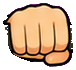
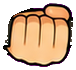
18 네온 니콜: 앞(먼) 주먹 반대 손 → 자루 축 기준 뒤집어 엄지 위로 (쥔 점·손목 자리 유지)
Claude-Session: https://claude.ai/code/session_015ytCrWApV92AMmnGMogyWc

diff --git a/assets/rig/nicole-neon/rig.def.js b/assets/rig/nicole-neon/rig.def.js
@@ -1,1 +1,1 @@
-window.MR_RIG_DEFS=window.MR_RIG_DEFS||{};window.MR_RIG_DEFS['nicole-neon']={"name":"nicole-neon","version":1,"units":"rig px (reference x2)","refOrigin":[261.7,506.0],"refScale":2.0,"refLift":0,"parts":{"skirt":{"src":"parts/skirt.png","pivot":[175.5,18.0],"scale":0.996,"mesh":{"cols":8,"rows":9}},"cape":{"src":"parts/cape.png","pivot":[101.0,10.0],"scale":1.06,"mesh":{"cols":6,"rows":7}},"torso":{"src":"parts/torso.png","pivot":[148.5,175.8],"scale":0.748},"pouchA":{"src":"parts/pouchA.png","pivot":[50.5,34.2],"scale":0.9716},"pouchB":{"src":"parts/pouchB.png","pivot":[51.0,33.9],"scale":0.9893},"collarBack":{"src":"parts/collarBack.png","pivot":[61.0,42.0],"scale":0.7779},"collar":{"src":"parts/collar.png","pivot":[61.0,42.0],"scale":0.7779},"head":{"src":"parts/head.png","pivot":[187.9,264.0],"scale":0.9868},"armU":{"src":"parts/armU.png","pivot":[56.3,29.9],"scale":1.2363},"armL":{"src":"parts/armL.png","pivot":[47.8,33.9],"scale":1.2363,"alt":"armLF"},"pauldron":{"src":"parts/pauldron.png","pivot":[69.6,89.5],"scale":0.8367},"pauldronF":{"src":"parts/pauldronF.png","pivot":[55.6,68.5],"scale":0.78},"armF":{"src":"parts/armF.png","pivot":[28.1,29.2],"scale":1.2363},"foreF":{"src":"parts/foreF.png","pivot":[35.1,30.8],"scale":1.2363},"fistF":{"src":"parts/fistF.png","pivot":[17.1,21.9],"scale":1.2674},"weapon":{"src":"parts/weapon.png","pivot":[107.9,622.0],"scale":0.7995,"tips":[[72.5,7.0],[141.5,7.0]]},"coatFlap":{"src":"parts/coatFlap.png","pivot":[-45.5,-32.0],"scale":0.996,"mesh":{"cols":3,"rows":9}},"armLF":{"src":"parts/armLF.png","pivot":[73.7,38.3],"scale":1.2363,"grip":[55.6,136.4]},"handL":{"src":"parts/handL.png","pivot":[40.4,37.3],"scale":1.2363,"shaftDir":[1.0,-0.0008],"wrist":[4.0,60.0],"toElbow":[-0.862,0.506]},"handR":{"src":"parts/handR.png","pivot":[141.2,36.1],"scale":1.2363,"shaftDir":[1.0,-0.0004],"elbow":[3.0,36.0]},"waveSleeve":{"src":"parts/waveSleeve.png","pivot":[24.0,24.0],"scale":1.2363,"elbow":[33.5,86.9]},"waveFore":{"src":"parts/waveFore.png","pivot":[31.3,89.6],"scale":1.2363,"wrist":[104.3,32.6]},"waveHandW":{"src":"parts/waveHandW.png","pivot":[38.0,74.0],"scale":1.2363,"tip":[43.0,5.0]},"thigh":{"src":"parts/thigh.png","pivot":[38.1,36.0],"scale":1},"shin":{"src":"parts/shin.png","pivot":[28.0,28.1],"scale":1},"boot":{"src":"parts/boot.png","pivot":[45,30],"scale":1.177},"face_effort":{"src":"parts/face_effort.png","pivot":[86.9,171.0],"scale":0.9868},"face_shout":{"src":"parts/face_shout.png","pivot":[86.9,171.0],"scale":0.9868},"face_happy":{"src":"parts/face_happy.png","pivot":[86.9,171.0],"scale":0.9868},"face_sad":{"src":"parts/face_sad.png","pivot":[86.9,171.0],"scale":0.9868},"face_angry":{"src":"parts/face_angry.png","pivot":[86.9,171.0],"scale":0.9868},"face_grimace":{"src":"parts/face_grimace.png","pivot":[86.9,171.0],"scale":0.9868},"face_focus":{"src":"parts/face_focus.png","pivot":[86.9,171.0],"scale":0.9868},"face_relaxed":{"src":"parts/face_relaxed.png","pivot":[86.9,171.0],"scale":0.9868},"blink_half":{"src":"parts/blink_half.png","pivot":[86.9,171.0],"scale":0.9868},"blink_closed":{"src":"parts/blink_closed.png","pivot":[86.9,171.0],"scale":0.9868}},"bones":[{"name":"root","parent":null,"pos":[0,0]},{"name":"hip","parent":"root","pos":[34.0,-417.2]},{"name":"skirt","parent":"hip","pos":[-23.8,-16.6],"rot":0.0152,"part":"skirt"},{"name":"cape","parent":"hip","pos":[-119.4,26.2],"rot":0.68,"part":"cape"},{"name":"torso","parent":"hip","pos":[0.0,0.0],"rot":-0.0407,"part":"torso"},{"name":"pouchA","parent":"skirt","pos":[-64.6,25.8],"rot":0.0885,"part":"pouchA"},{"name":"pouchB","parent":"skirt","pos":[77.8,27.3],"rot":-0.0943,"part":"pouchB"},{"name":"collarBack","parent":"torso","pos":[-46.0,-125.8],"rot":0.0683,"part":"collarBack"},{"name":"collar","parent":"torso","pos":[-46.0,-125.8],"rot":0.0683,"part":"collar"},{"name":"head","parent":"torso","pos":[-45.9,-133.6],"rot":0.0631,"part":"head"},{"name":"armU","parent":"torso","pos":[-134.3,-75.3],"rot":-0.0682,"part":"armU"},{"name":"armL","parent":"armU","pos":[-34.1,65.7],"rot":0.0522,"part":"armL"},{"name":"pauldron","parent":"torso","pos":[-134.3,-75.3],"rot":-0.1009,"part":"pauldron"},{"name":"pauldronF","parent":"torso","pos":[49.7,-89.3],"rot":-0.2735,"part":"pauldronF"},{"name":"armF","parent":"torso","pos":[49.7,-89.3],"rot":-0.6631,"part":"armF"},{"name":"foreF","parent":"armF","pos":[30.5,68.2],"rot":-1.0538,"part":"foreF"},{"name":"fistF","parent":"foreF","pos":[30.0,71.0],"part":"fistF"},{"name":"weapon","parent":"fistF","pos":[31.9,24.5],"rot":1.7576,"part":"weapon"},{"name":"coatFlap","parent":"skirt","pos":[0,0],"part":"coatFlap"},{"name":"handL","parent":"weapon","pos":[0,0],"rot":-1.57,"part":"handL"},{"name":"handR","parent":"weapon","pos":[0,0],"rot":-1.5704,"part":"handR"},{"name":"wSleeve","parent":"torso","pos":[49.7,-89.3],"part":"waveSleeve"},{"name":"wFore","parent":"wSleeve","pos":[11.7,77.7],"part":"waveFore"},{"name":"wHand","parent":"wFore","pos":[90.3,-70.4],"part":"waveHandW"}],"legs":{"hip":[0,53],"thigh":150,"shin":146,"thighImg":{"part":"thigh","a":[38.1,36.0],"b":[44.7,110.8],"w":0.605},"shinImg":{"part":"shin","a":[28.0,28.1],"b":[35.8,98.1],"w":0.638},"boot":{"part":"boot","sole":[[-38,50],[-30,58],[45,58],[66,50]],"ankleRange":[-0.62,0.56]},"near":{"x":40,"shade":0},"far":{"x":-60,"shade":0.16}},"draw":["cape","legFar","legNear","armF","torso","collarBack","pauldronF","skirt","coatFlap","pouchB","pouchA","weapon","foreF","fistF","handL","armU","armL","pauldron","handR","head","collar"],"drawWave":["cape","legFar","legNear","armF","wSleeve","torso","collarBack","pauldronF","skirt","coatFlap","pouchB","pouchA","weapon","foreF","fistF","handL","wFore","armU","armL","pauldron","handR","head","collar","wHand"],"hidden":["handL","handR","wSleeve","wFore","wHand"],"faces":{"effort":"face_effort","shout":"face_shout","happy":"face_happy","sad":"face_sad","angry":"face_angry","grimace":"face_grimace","focus":"face_focus","relaxed":"face_relaxed"},"waveImg":{"upper":1.4217,"fore":-0.6622,"hand":-1.4985,"handRest":-0.357,"shoulderShift":[0,18],"up":1.15,"fore0":-1.2,"note":"먼 팔(창 팔) 손 흔들기: 소매는 상체 뒤, 먼 어깨갑(pauldronF)이 어깨를 덮음"},"hemRun":{"lift":12,"knee":0.7,"heel":0.6,"reach":0.15,"kneeX":0.3,"lungeK":0.45,"lungeX":0.35,"actKnee":0.6},"hemLimit":{"up":0.28,"x":0.32},"flap":{"part":"coatFlap","off":[221.0,50.0],"openX":46,"openY":18,"knee":0.012,"kneeUp":0.008,"lunge":0.009},"releaseOpen":true,"dropLift":16,"hemRest":true,"idleStance":{"near":40,"far":-106},"follow":[{"bone":"pauldronF","src":"armF","k":0.35}],"runForeBend":-0.45,"wristRange":0.55,"runTilt":0,"metrics":{"bodyHeight":786,"heightWithWeapon":1009,"note":"rig units. bodyHeight = 머리카락 위 ~ 발바닥(대기), 무기 제외","shaftWidth":34,"fistWidth":70,"forearmThickness":50},"ui":{"attack":"thrust","touch":"wave","stillSame":true},"note":"18 네온 니콜. 8 러스트 니콜(rust-fork-girl v15)과 같은 뼈대·동작. 다른 점: 칼라(collar)·먼 어깨갑(pauldronF, 먼 팔을 35% 따라 돎)·코트 꼬리(cape, 허리 뼈)·파우치 2개(코트 위 고정)·그린 깜빡임","blinkFaces":{"half":"blink_half","closed":"blink_closed"},"faceInfo":{"closedEyes":["happy","grimace"],"note":"표정 시트 10칸에서 얼굴(피부+먼 눈)만 오려 기준 머리에 ECC 정렬. 머리카락·윤곽은 항상 기준 머리"},"actions":{"thrust":{"dur":0.8,"hitAt":0.3,"cancelAt":0.54,"w":[[0,0,"o"],[0.1,1],[0.58,1,"io"],[0.8,0]],"hipX":[[0,0,"io"],[0.18,-26,"s"],[0.3,92],[0.42,88,"io"],[0.7,0]],"hipY":[[0,0,"io"],[0.18,30,"s"],[0.3,64],[0.42,62,"io"],[0.7,-2,"io"],[0.75,6,"io"],[0.8,0]],"lean":[[0,0,"io"],[0.18,-0.1,"s"],[0.3,0.22],[0.42,0.2,"io"],[0.7,0]],"head":[[0,0,"io"],[0.18,0.06,"s"],[0.3,-0.12],[0.42,-0.1,"io"],[0.7,0]],"breath":[[0,0,"io"],[0.16,1,"o"],[0.3,-0.4,"io"],[0.48,-0.6,"io"],[0.8,0]],"twist":[[0,0,"io"],[0.18,-0.7,"s"],[0.3,0.7],[0.42,0.6,"io"],[0.7,0]],"ang":[[0,0.05,"io"],[0.18,1,"s"],[0.3,1.4,"o"],[0.42,1.39,"io"],[0.62,1.2,"io"],[0.79,0.35]],"thF":[[0,0.35,"io"],[0.18,0.22,"s"],[0.3,0.3,"o"],[0.33,0.26,"io"],[0.42,0.29,"io"],[0.62,0.3,"io"],[0.79,0.35]],"nearW":[[0,0,"io"],[0.19,0,"io"],[0.27,1],[0.44,1,"io"],[0.54,0]],"gap":[[0,170,"io"],[0.18,165,"io"],[0.3,170,"io"],[0.6,170]],"farDx":[[0,0,"io"],[0.18,0,"s"],[0.3,190],[0.46,190,"io"],[0.64,0]],"farLift":[[0,0],[0.18,0,"io"],[0.24,32,"io"],[0.3,0],[0.46,0,"io"],[0.55,24,"io"],[0.64,0]],"farAng":[[0,0],[0.21,0,"io"],[0.27,-0.24,"io"],[0.33,0]],"nearDx":[[0,0,"io"],[0.03,0,"io"],[0.15,-45],[0.62,-45,"io"],[0.76,0]],"nearLift":[[0,0],[0.03,0,"io"],[0.09,16,"io"],[0.15,0],[0.62,0,"io"],[0.69,14,"io"],[0.76,0]],"nearAng":[[0,0],[0.21,0,"io"],[0.31,0.2],[0.44,0.18,"io"],[0.6,0]],"trail":[[0,0],[0.19,0,"lin"],[0.22,1],[0.34,1,"lin"],[0.41,0]],"shake":[[0,0],[0.3,0,"lin"],[0.31,0.4],[0.42,0]],"face":[[0,"effort"],[0.19,"shout"],[0.4,"focus"],[0.62,"relaxed"],[0.76,null]],"slide":[[0,0,"o"],[0.08,55,"io"],[0.18,95,"s"],[0.3,130,"o"],[0.42,130,"io"],[0.62,70,"io"],[0.79,0]]}}};
+window.MR_RIG_DEFS=window.MR_RIG_DEFS||{};window.MR_RIG_DEFS['nicole-neon']={"name":"nicole-neon","version":1,"units":"rig px (reference x2)","refOrigin":[261.7,506.0],"refScale":2.0,"refLift":0,"parts":{"skirt":{"src":"parts/skirt.png","pivot":[175.5,18.0],"scale":0.996,"mesh":{"cols":8,"rows":9}},"cape":{"src":"parts/cape.png","pivot":[101.0,10.0],"scale":1.06,"mesh":{"cols":6,"rows":7}},"torso":{"src":"parts/torso.png","pivot":[148.5,175.8],"scale":0.748},"pouchA":{"src":"parts/pouchA.png","pivot":[50.5,34.2],"scale":0.9716},"pouchB":{"src":"parts/pouchB.png","pivot":[51.0,33.9],"scale":0.9893},"collarBack":{"src":"parts/collarBack.png","pivot":[61.0,42.0],"scale":0.7779},"collar":{"src":"parts/collar.png","pivot":[61.0,42.0],"scale":0.7779},"head":{"src":"parts/head.png","pivot":[187.9,264.0],"scale":0.9868},"armU":{"src":"parts/armU.png","pivot":[56.3,29.9],"scale":1.2363},"armL":{"src":"parts/armL.png","pivot":[47.8,33.9],"scale":1.2363,"alt":"armLF"},"pauldron":{"src":"parts/pauldron.png","pivot":[69.6,89.5],"scale":0.8367},"pauldronF":{"src":"parts/pauldronF.png","pivot":[55.6,68.5],"scale":0.78},"armF":{"src":"parts/armF.png","pivot":[28.1,29.2],"scale":1.2363},"foreF":{"src":"parts/foreF.png","pivot":[35.1,30.8],"scale":1.2363},"fistF":{"src":"parts/fistF.png","pivot":[17.1,21.9],"scale":1.2674},"weapon":{"src":"parts/weapon.png","pivot":[107.9,622.0],"scale":0.7995,"tips":[[72.5,7.0],[141.5,7.0]]},"coatFlap":{"src":"parts/coatFlap.png","pivot":[-45.5,-32.0],"scale":0.996,"mesh":{"cols":3,"rows":9}},"armLF":{"src":"parts/armLF.png","pivot":[73.7,38.3],"scale":1.2363,"grip":[55.6,136.4]},"handL":{"src":"parts/handL.png","pivot":[40.4,32.7],"scale":1.2363,"shaftDir":[1.0,0.0008],"wrist":[4.0,55.4],"toElbow":[-0.862,0.506]},"handR":{"src":"parts/handR.png","pivot":[141.2,36.1],"scale":1.2363,"shaftDir":[1.0,-0.0004],"elbow":[3.0,36.0]},"waveSleeve":{"src":"parts/waveSleeve.png","pivot":[24.0,24.0],"scale":1.2363,"elbow":[33.5,86.9]},"waveFore":{"src":"parts/waveFore.png","pivot":[31.3,89.6],"scale":1.2363,"wrist":[104.3,32.6]},"waveHandW":{"src":"parts/waveHandW.png","pivot":[38.0,74.0],"scale":1.2363,"tip":[43.0,5.0]},"thigh":{"src":"parts/thigh.png","pivot":[38.1,36.0],"scale":1},"shin":{"src":"parts/shin.png","pivot":[28.0,28.1],"scale":1},"boot":{"src":"parts/boot.png","pivot":[45,30],"scale":1.177},"face_effort":{"src":"parts/face_effort.png","pivot":[86.9,171.0],"scale":0.9868},"face_shout":{"src":"parts/face_shout.png","pivot":[86.9,171.0],"scale":0.9868},"face_happy":{"src":"parts/face_happy.png","pivot":[86.9,171.0],"scale":0.9868},"face_sad":{"src":"parts/face_sad.png","pivot":[86.9,171.0],"scale":0.9868},"face_angry":{"src":"parts/face_angry.png","pivot":[86.9,171.0],"scale":0.9868},"face_grimace":{"src":"parts/face_grimace.png","pivot":[86.9,171.0],"scale":0.9868},"face_focus":{"src":"parts/face_focus.png","pivot":[86.9,171.0],"scale":0.9868},"face_relaxed":{"src":"parts/face_relaxed.png","pivot":[86.9,171.0],"scale":0.9868},"blink_half":{"src":"parts/blink_half.png","pivot":[86.9,171.0],"scale":0.9868},"blink_closed":{"src":"parts/blink_closed.png","pivot":[86.9,171.0],"scale":0.9868}},"bones":[{"name":"root","parent":null,"pos":[0,0]},{"name":"hip","parent":"root","pos":[34.0,-417.2]},{"name":"skirt","parent":"hip","pos":[-23.8,-16.6],"rot":0.0152,"part":"skirt"},{"name":"cape","parent":"hip","pos":[-119.4,26.2],"rot":0.68,"part":"cape"},{"name":"torso","parent":"hip","pos":[0.0,0.0],"rot":-0.0407,"part":"torso"},{"name":"pouchA","parent":"skirt","pos":[-64.6,25.8],"rot":0.0885,"part":"pouchA"},{"name":"pouchB","parent":"skirt","pos":[77.8,27.3],"rot":-0.0943,"part":"pouchB"},{"name":"collarBack","parent":"torso","pos":[-46.0,-125.8],"rot":0.0683,"part":"collarBack"},{"name":"collar","parent":"torso","pos":[-46.0,-125.8],"rot":0.0683,"part":"collar"},{"name":"head","parent":"torso","pos":[-45.9,-133.6],"rot":0.0631,"part":"head"},{"name":"armU","parent":"torso","pos":[-134.3,-75.3],"rot":-0.0682,"part":"armU"},{"name":"armL","parent":"armU","pos":[-34.1,65.7],"rot":0.0522,"part":"armL"},{"name":"pauldron","parent":"torso","pos":[-134.3,-75.3],"rot":-0.1009,"part":"pauldron"},{"name":"pauldronF","parent":"torso","pos":[49.7,-89.3],"rot":-0.2735,"part":"pauldronF"},{"name":"armF","parent":"torso","pos":[49.7,-89.3],"rot":-0.6631,"part":"armF"},{"name":"foreF","parent":"armF","pos":[30.5,68.2],"rot":-1.0538,"part":"foreF"},{"name":"fistF","parent":"foreF","pos":[30.0,71.0],"part":"fistF"},{"name":"weapon","parent":"fistF","pos":[31.9,24.5],"rot":1.7576,"part":"weapon"},{"name":"coatFlap","parent":"skirt","pos":[0,0],"part":"coatFlap"},{"name":"handL","parent":"weapon","pos":[0,0],"rot":-1.5716,"part":"handL"},{"name":"handR","parent":"weapon","pos":[0,0],"rot":-1.5704,"part":"handR"},{"name":"wSleeve","parent":"torso","pos":[49.7,-89.3],"part":"waveSleeve"},{"name":"wFore","parent":"wSleeve","pos":[11.7,77.7],"part":"waveFore"},{"name":"wHand","parent":"wFore","pos":[90.3,-70.4],"part":"waveHandW"}],"legs":{"hip":[0,53],"thigh":150,"shin":146,"thighImg":{"part":"thigh","a":[38.1,36.0],"b":[44.7,110.8],"w":0.605},"shinImg":{"part":"shin","a":[28.0,28.1],"b":[35.8,98.1],"w":0.638},"boot":{"part":"boot","sole":[[-38,50],[-30,58],[45,58],[66,50]],"ankleRange":[-0.62,0.56]},"near":{"x":40,"shade":0},"far":{"x":-60,"shade":0.16}},"draw":["cape","legFar","legNear","armF","torso","collarBack","pauldronF","skirt","coatFlap","pouchB","pouchA","weapon","foreF","fistF","handL","armU","armL","pauldron","handR","head","collar"],"drawWave":["cape","legFar","legNear","armF","wSleeve","torso","collarBack","pauldronF","skirt","coatFlap","pouchB","pouchA","weapon","foreF","fistF","handL","wFore","armU","armL","pauldron","handR","head","collar","wHand"],"hidden":["handL","handR","wSleeve","wFore","wHand"],"faces":{"effort":"face_effort","shout":"face_shout","happy":"face_happy","sad":"face_sad","angry":"face_angry","grimace":"face_grimace","focus":"face_focus","relaxed":"face_relaxed"},"waveImg":{"upper":1.4217,"fore":-0.6622,"hand":-1.4985,"handRest":-0.357,"shoulderShift":[0,18],"up":1.15,"fore0":-1.2,"note":"먼 팔(창 팔) 손 흔들기: 소매는 상체 뒤, 먼 어깨갑(pauldronF)이 어깨를 덮음"},"hemRun":{"lift":12,"knee":0.7,"heel":0.6,"reach":0.15,"kneeX":0.3,"lungeK":0.45,"lungeX":0.35,"actKnee":0.6},"hemLimit":{"up":0.28,"x":0.32},"flap":{"part":"coatFlap","off":[221.0,50.0],"openX":46,"openY":18,"knee":0.012,"kneeUp":0.008,"lunge":0.009},"releaseOpen":true,"dropLift":16,"hemRest":true,"idleStance":{"near":40,"far":-106},"follow":[{"bone":"pauldronF","src":"armF","k":0.35}],"runForeBend":-0.45,"wristRange":0.55,"runTilt":0,"metrics":{"bodyHeight":786,"heightWithWeapon":1009,"note":"rig units. bodyHeight = 머리카락 위 ~ 발바닥(대기), 무기 제외","shaftWidth":34,"fistWidth":70,"forearmThickness":50},"ui":{"attack":"thrust","touch":"wave","stillSame":true},"note":"18 네온 니콜. 8 러스트 니콜(rust-fork-girl v15)과 같은 뼈대·동작. 다른 점: 칼라(collar)·먼 어깨갑(pauldronF, 먼 팔을 35% 따라 돎)·코트 꼬리(cape, 허리 뼈)·파우치 2개(코트 위 고정)·그린 깜빡임","blinkFaces":{"half":"blink_half","closed":"blink_closed"},"faceInfo":{"closedEyes":["happy","grimace"],"note":"표정 시트 10칸에서 얼굴(피부+먼 눈)만 오려 기준 머리에 ECC 정렬. 머리카락·윤곽은 항상 기준 머리"},"actions":{"thrust":{"dur":0.8,"hitAt":0.3,"cancelAt":0.54,"w":[[0,0,"o"],[0.1,1],[0.58,1,"io"],[0.8,0]],"hipX":[[0,0,"io"],[0.18,-26,"s"],[0.3,92],[0.42,88,"io"],[0.7,0]],"hipY":[[0,0,"io"],[0.18,30,"s"],[0.3,64],[0.42,62,"io"],[0.7,-2,"io"],[0.75,6,"io"],[0.8,0]],"lean":[[0,0,"io"],[0.18,-0.1,"s"],[0.3,0.22],[0.42,0.2,"io"],[0.7,0]],"head":[[0,0,"io"],[0.18,0.06,"s"],[0.3,-0.12],[0.42,-0.1,"io"],[0.7,0]],"breath":[[0,0,"io"],[0.16,1,"o"],[0.3,-0.4,"io"],[0.48,-0.6,"io"],[0.8,0]],"twist":[[0,0,"io"],[0.18,-0.7,"s"],[0.3,0.7],[0.42,0.6,"io"],[0.7,0]],"ang":[[0,0.05,"io"],[0.18,1,"s"],[0.3,1.4,"o"],[0.42,1.39,"io"],[0.62,1.2,"io"],[0.79,0.35]],"thF":[[0,0.35,"io"],[0.18,0.22,"s"],[0.3,0.3,"o"],[0.33,0.26,"io"],[0.42,0.29,"io"],[0.62,0.3,"io"],[0.79,0.35]],"nearW":[[0,0,"io"],[0.19,0,"io"],[0.27,1],[0.44,1,"io"],[0.54,0]],"gap":[[0,170,"io"],[0.18,165,"io"],[0.3,170,"io"],[0.6,170]],"farDx":[[0,0,"io"],[0.18,0,"s"],[0.3,190],[0.46,190,"io"],[0.64,0]],"farLift":[[0,0],[0.18,0,"io"],[0.24,32,"io"],[0.3,0],[0.46,0,"io"],[0.55,24,"io"],[0.64,0]],"farAng":[[0,0],[0.21,0,"io"],[0.27,-0.24,"io"],[0.33,0]],"nearDx":[[0,0,"io"],[0.03,0,"io"],[0.15,-45],[0.62,-45,"io"],[0.76,0]],"nearLift":[[0,0],[0.03,0,"io"],[0.09,16,"io"],[0.15,0],[0.62,0,"io"],[0.69,14,"io"],[0.76,0]],"nearAng":[[0,0],[0.21,0,"io"],[0.31,0.2],[0.44,0.18,"io"],[0.6,0]],"trail":[[0,0],[0.19,0,"lin"],[0.22,1],[0.34,1,"lin"],[0.41,0]],"shake":[[0,0],[0.3,0,"lin"],[0.31,0.4],[0.42,0]],"face":[[0,"effort"],[0.19,"shout"],[0.4,"focus"],[0.62,"relaxed"],[0.76,null]],"slide":[[0,0,"o"],[0.08,55,"io"],[0.18,95,"s"],[0.3,130,"o"],[0.42,130,"io"],[0.62,70,"io"],[0.79,0]]}}};

diff --git a/assets/rig/nicole-neon/source/build_neon.py b/assets/rig/nicole-neon/source/build_neon.py
@@ -130,6 +130,13 @@ for nm in ['handL', 'handR']:
     r_ = (-math.pi / 2) - math.atan2(sd[1], sd[0]) - wphi
     out_bones.append({'name': nm, 'parent': 'weapon', 'pos': [0, 0], 'rot': round(r_, 4), 'part': nm})
 off = HJ['handL']['off']; wL = A(T('handLwristCut', [98, 63])) - off; parts['handL']['wrist'] = [round(float(wL[0]), 1), round(float(wL[1]), 1)]
+if T('handLflip', False):   # 앞(먼) 주먹 좌우 손 반대 → 자루 축 기준 위아래 뒤집기: 엄지가 위(창끝 쪽)로 (DHL 13:13 '반대 손 모양')
+    pim = Image.open(os.path.join(PARTS, 'handL.png')); hh = pim.height; pim.transpose(Image.FLIP_TOP_BOTTOM).save(os.path.join(PARTS, 'handL.png'))
+    pl = parts['handL']; pl['pivot'] = [pl['pivot'][0], round(hh - pl['pivot'][1], 1)]; pl['shaftDir'] = [pl['shaftDir'][0], -pl['shaftDir'][1]]
+    # wrist(팔뚝이 붙는 점)는 그대로 둠: 팔뚝은 여전히 왼쪽 아래에서 들어옴 → 창·뒷손 자리 변화 없음
+    py0 = hh - pl['pivot'][1]; pl['wrist'] = [pl['wrist'][0], round(pl['wrist'][1] - py0 + pl['pivot'][1], 1)]   # 쥔 점 기준 같은 자리
+    for b_ in out_bones:
+        if b_['name'] == 'handL': sd_ = pl['shaftDir']; b_['rot'] = round((-math.pi / 2) - math.atan2(sd_[1], sd_[0]) - wphi, 4)
 te = A(T('handLtoElbow', [-63, 37]), float); te /= np.linalg.norm(te); parts['handL']['toElbow'] = [round(float(te[0]), 3), round(float(te[1]), 3)]
 off = HJ['handR']['off']; eR = A(T('handRelbowCut', [47, 39])) - off; parts['handR']['elbow'] = [round(float(eR[0]), 1), round(float(eR[1]), 1)]
 
